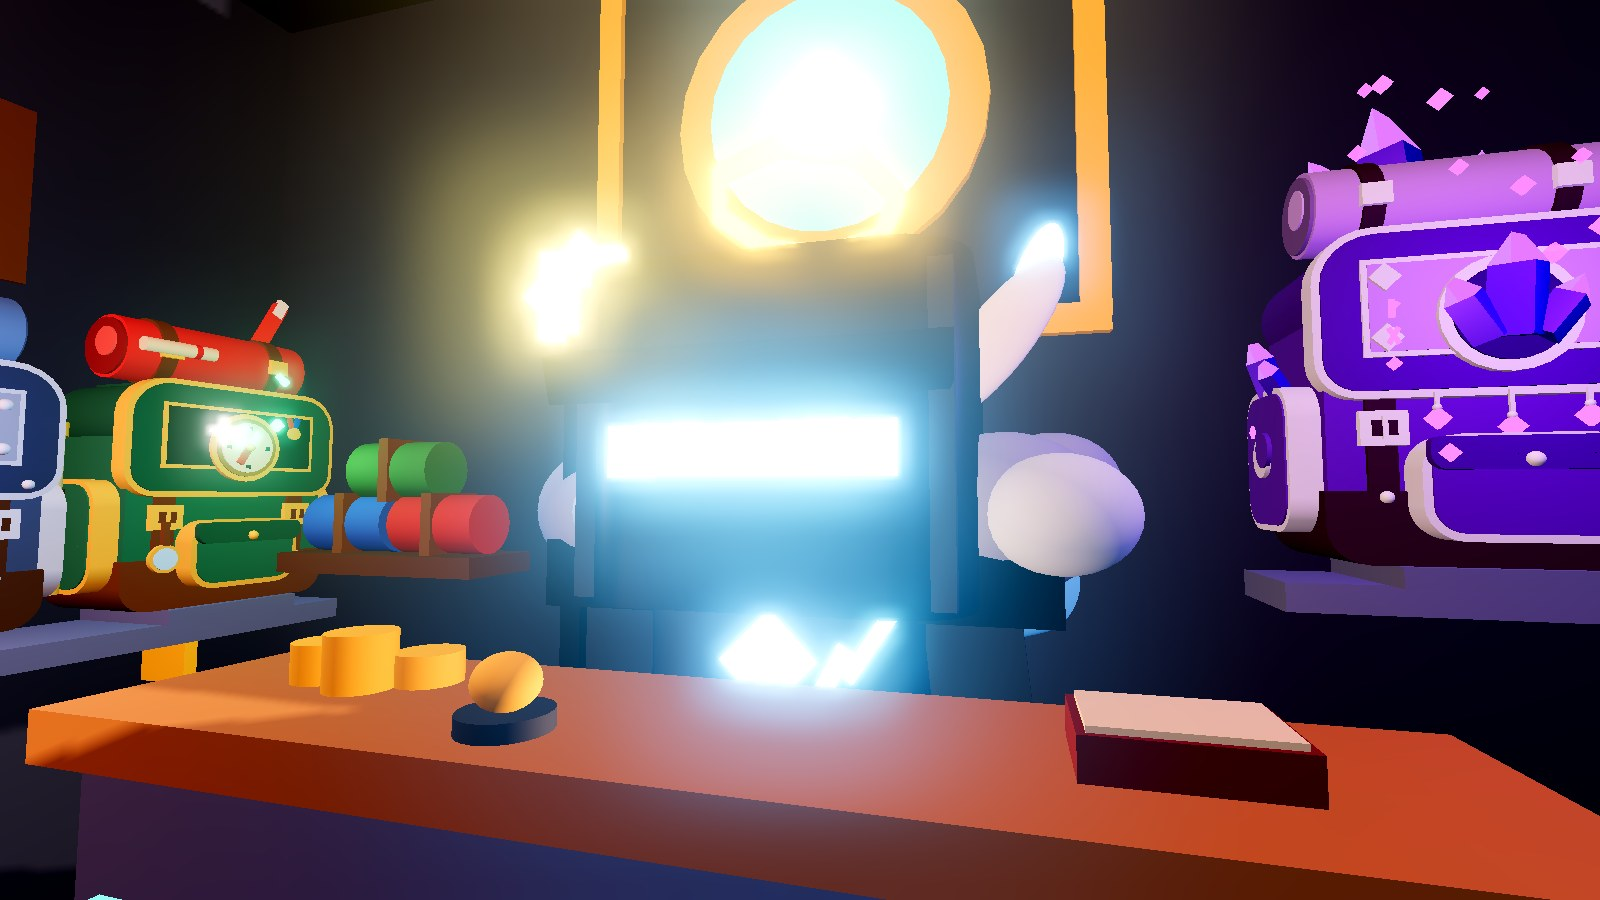
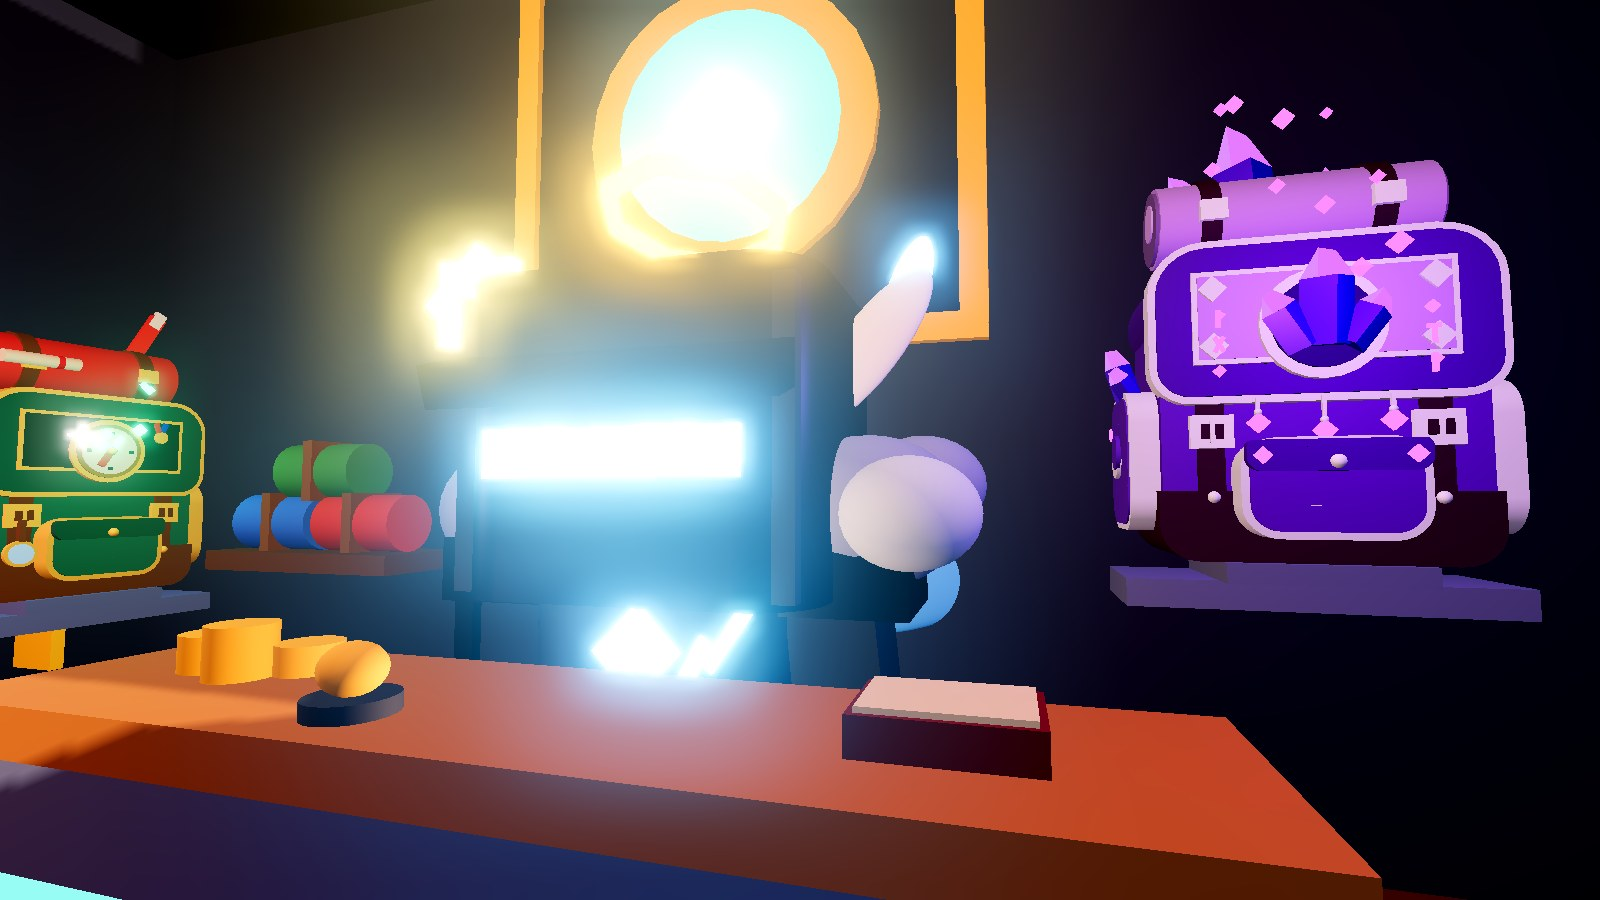
BACKPACKS shop a bit wider, a bigger turning pack on the roof (owner 2026-10-25)
- LobbyLayout BackpackStall: 16 -> 18 wide, center (46, 0, 73) (the south side
  1.3 studs off the vault statue's base corner, the north side 6 off the outcrop
  at (50, 58)); BackpackShopDecor.Layout.Width 15.6 -> 17.6, banners, porch
  plinths and crenels spread out.
- The roof's Starforge pack: DisplayScale 2.2 -> 2.8 on a two-tier podium with two
  teal rings (it turns slowly, DisplaySpin 0.5).
- Preview: BP_ROOF_ANGLE turns the roof pack (frames for the owner's spin GIF).

check.sh: ALL CHECKS PASSED (1849 tests, baked map v58 with 33,445 parts).

diff --git a/docs/plans/BACKPACKS.md b/docs/plans/BACKPACKS.md
@@ -47,7 +47,7 @@ a shop, a shopkeeper at the counter, more lights and effects; the ROCK SCANNER g
 Codex opens from the side menu's CODEX button; `CodexController` still adds its prompt to any
 model tagged `OreCodex`, there is none now).
 
-`LobbyLayout` piece `BackpackStall`: center (46, 0, 74), 16 x 16 x 12, facing west (-X) to the
+`LobbyLayout` piece `BackpackStall`: center (46, 0, 73), 18 x 16 x 12 (owner: "a bit wider"), facing west (-X) to the
 end of the `ToScanner` path, between the DROPPERS house, the vault's east statue, the red trees
 and the ore outcrop at (50, 58). `Districts/Backpacks` builds the shell (79 parts, one light):
 the porch with two plinths, the gold-framed gateway with teal neon, the BACKPACKS board, corner
@@ -57,7 +57,7 @@ and the shopkeeper's step. The clients build the rest (not map parts):
 
 - the ten packs on the plates with the attribute `BackpackId` (every pack once: the porch
   Runebound and Emberforge, the racks Rookie/Trail/Leather and Miner's/Iron-Bound/Explorer's,
-  the shelf Amethyst, the roof the giant Starforge: `DisplayScale` 2.2, `DisplaySpin` 0.5 rad/s,
+  the shelf Amethyst, the roof the giant Starforge: `DisplayScale` 2.8 on a two-tier podium, `DisplaySpin` 0.5 rad/s,
   its light on a PC). Each plate's `DisplayRange`: roof 45, porch 38, inside 30 studs. The
   inside plates carry `DisplayLite`: phones show those packs without their small details
   (`BackpackBuilder.lite`, ~40% of the parts) until the camera or the player is in the shop.
@@ -71,7 +71,8 @@ and the shopkeeper's step. The clients build the rest (not map parts):
   Shared.Config.ShopkeeperConfig), and in tests/Shopkeepers.spec.luau "Backpacks" in SHOPS and
   `Backpacks = "BackpackCounter"` in COUNTERS (the feet stand on the step, facing the gateway).
 
-Budgets (main 958ddb46 -> this branch, the budget tests' own counting): map 33,450 -> 33,459,
+Budgets (main 958ddb46 -> this branch at 16 wide, the budget tests' own counting; at 18 wide the
+map is 33,445 and every budget test still passes: re-measured at landing): map 33,450 -> 33,459,
 lobby area + museums 14,699 -> 14,681 (LobbyParts 14,730), phones' stream round the spawn
 24,811 -> 24,820, the plaza 25,063 -> 25,072, the DROPPERS door 25,206 -> 25,215 (StreamParts
 25,240). The shop's client packs and decor are out of range at all three spots
